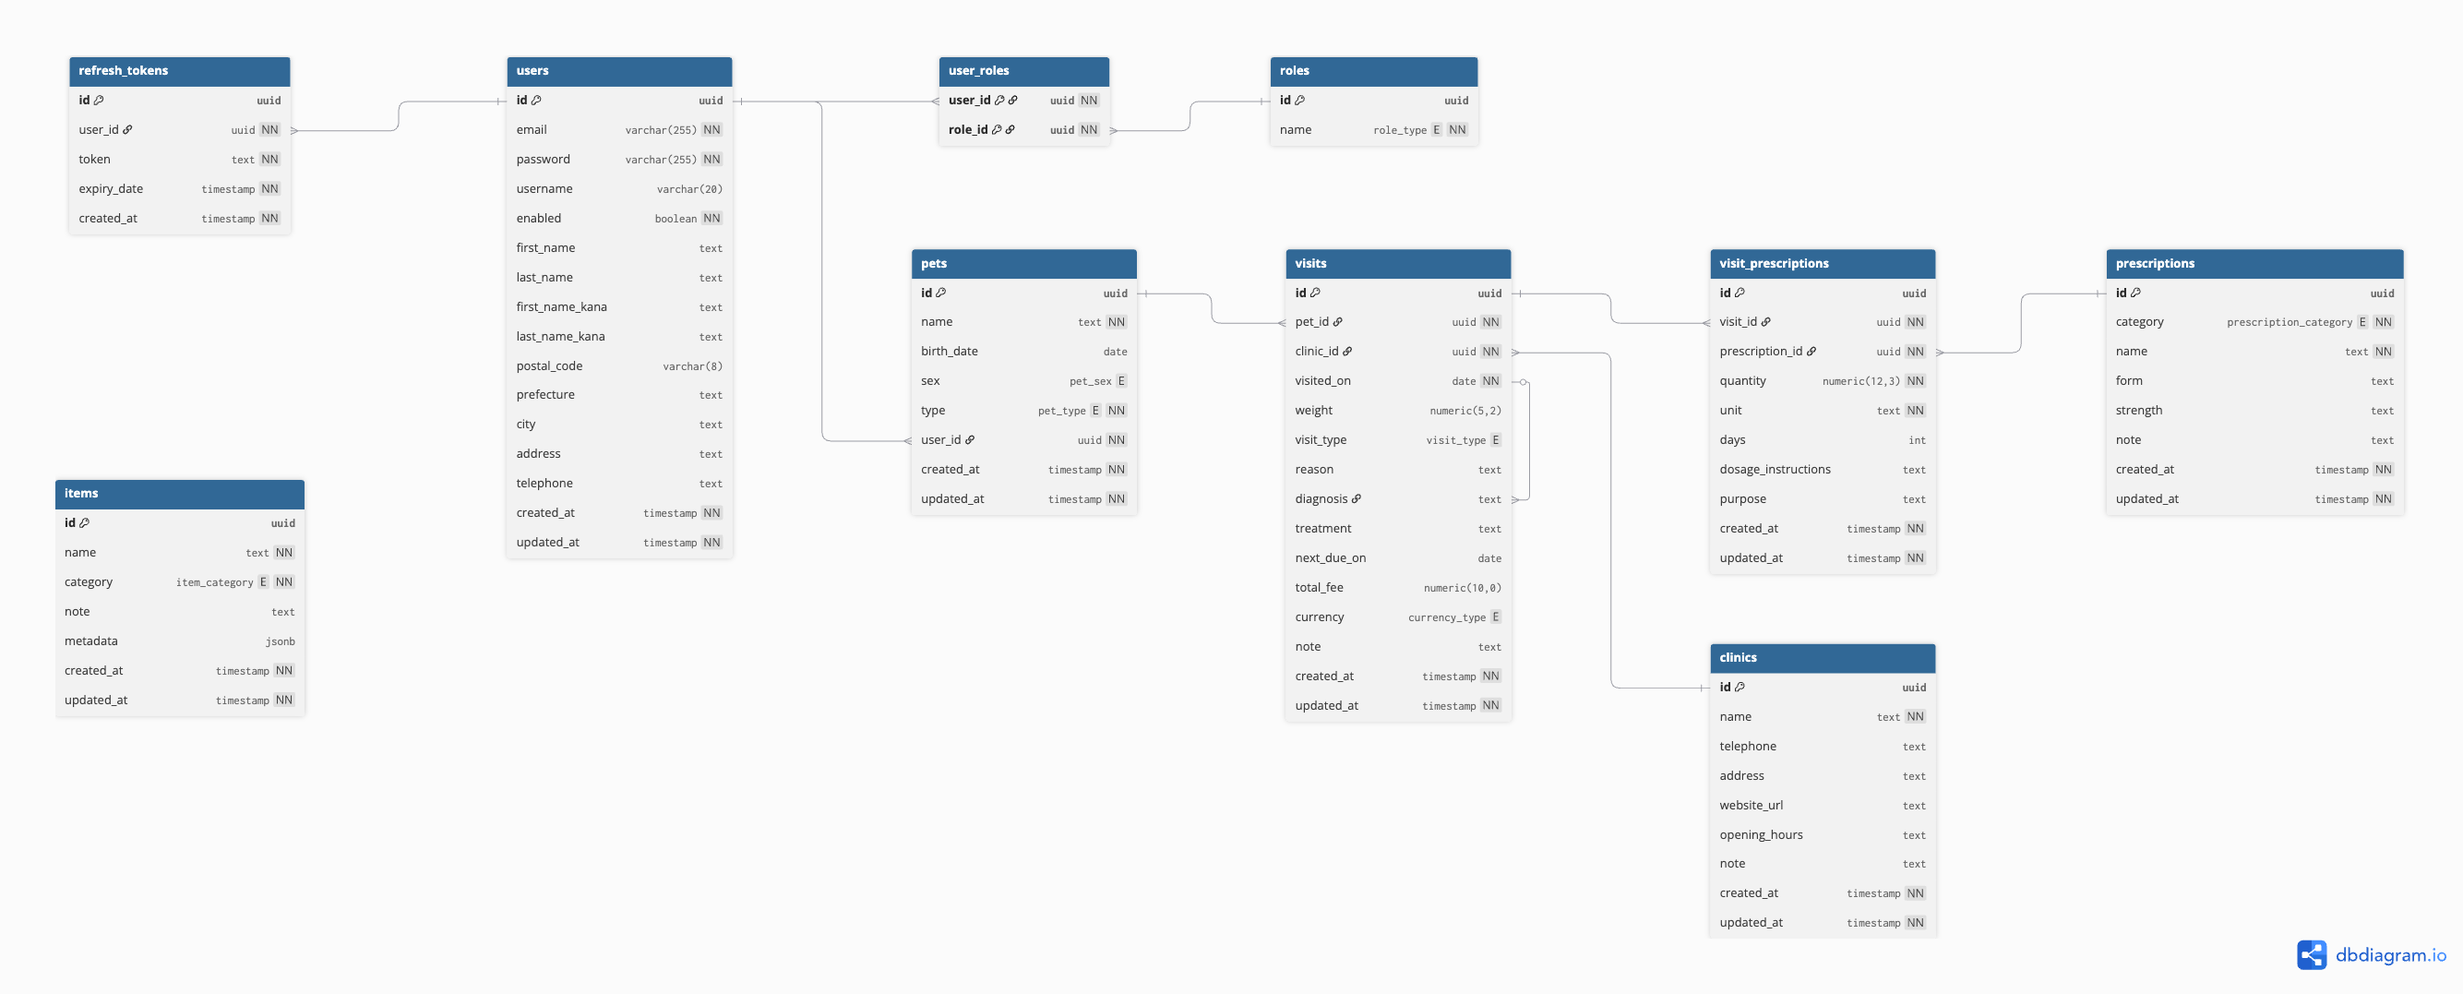
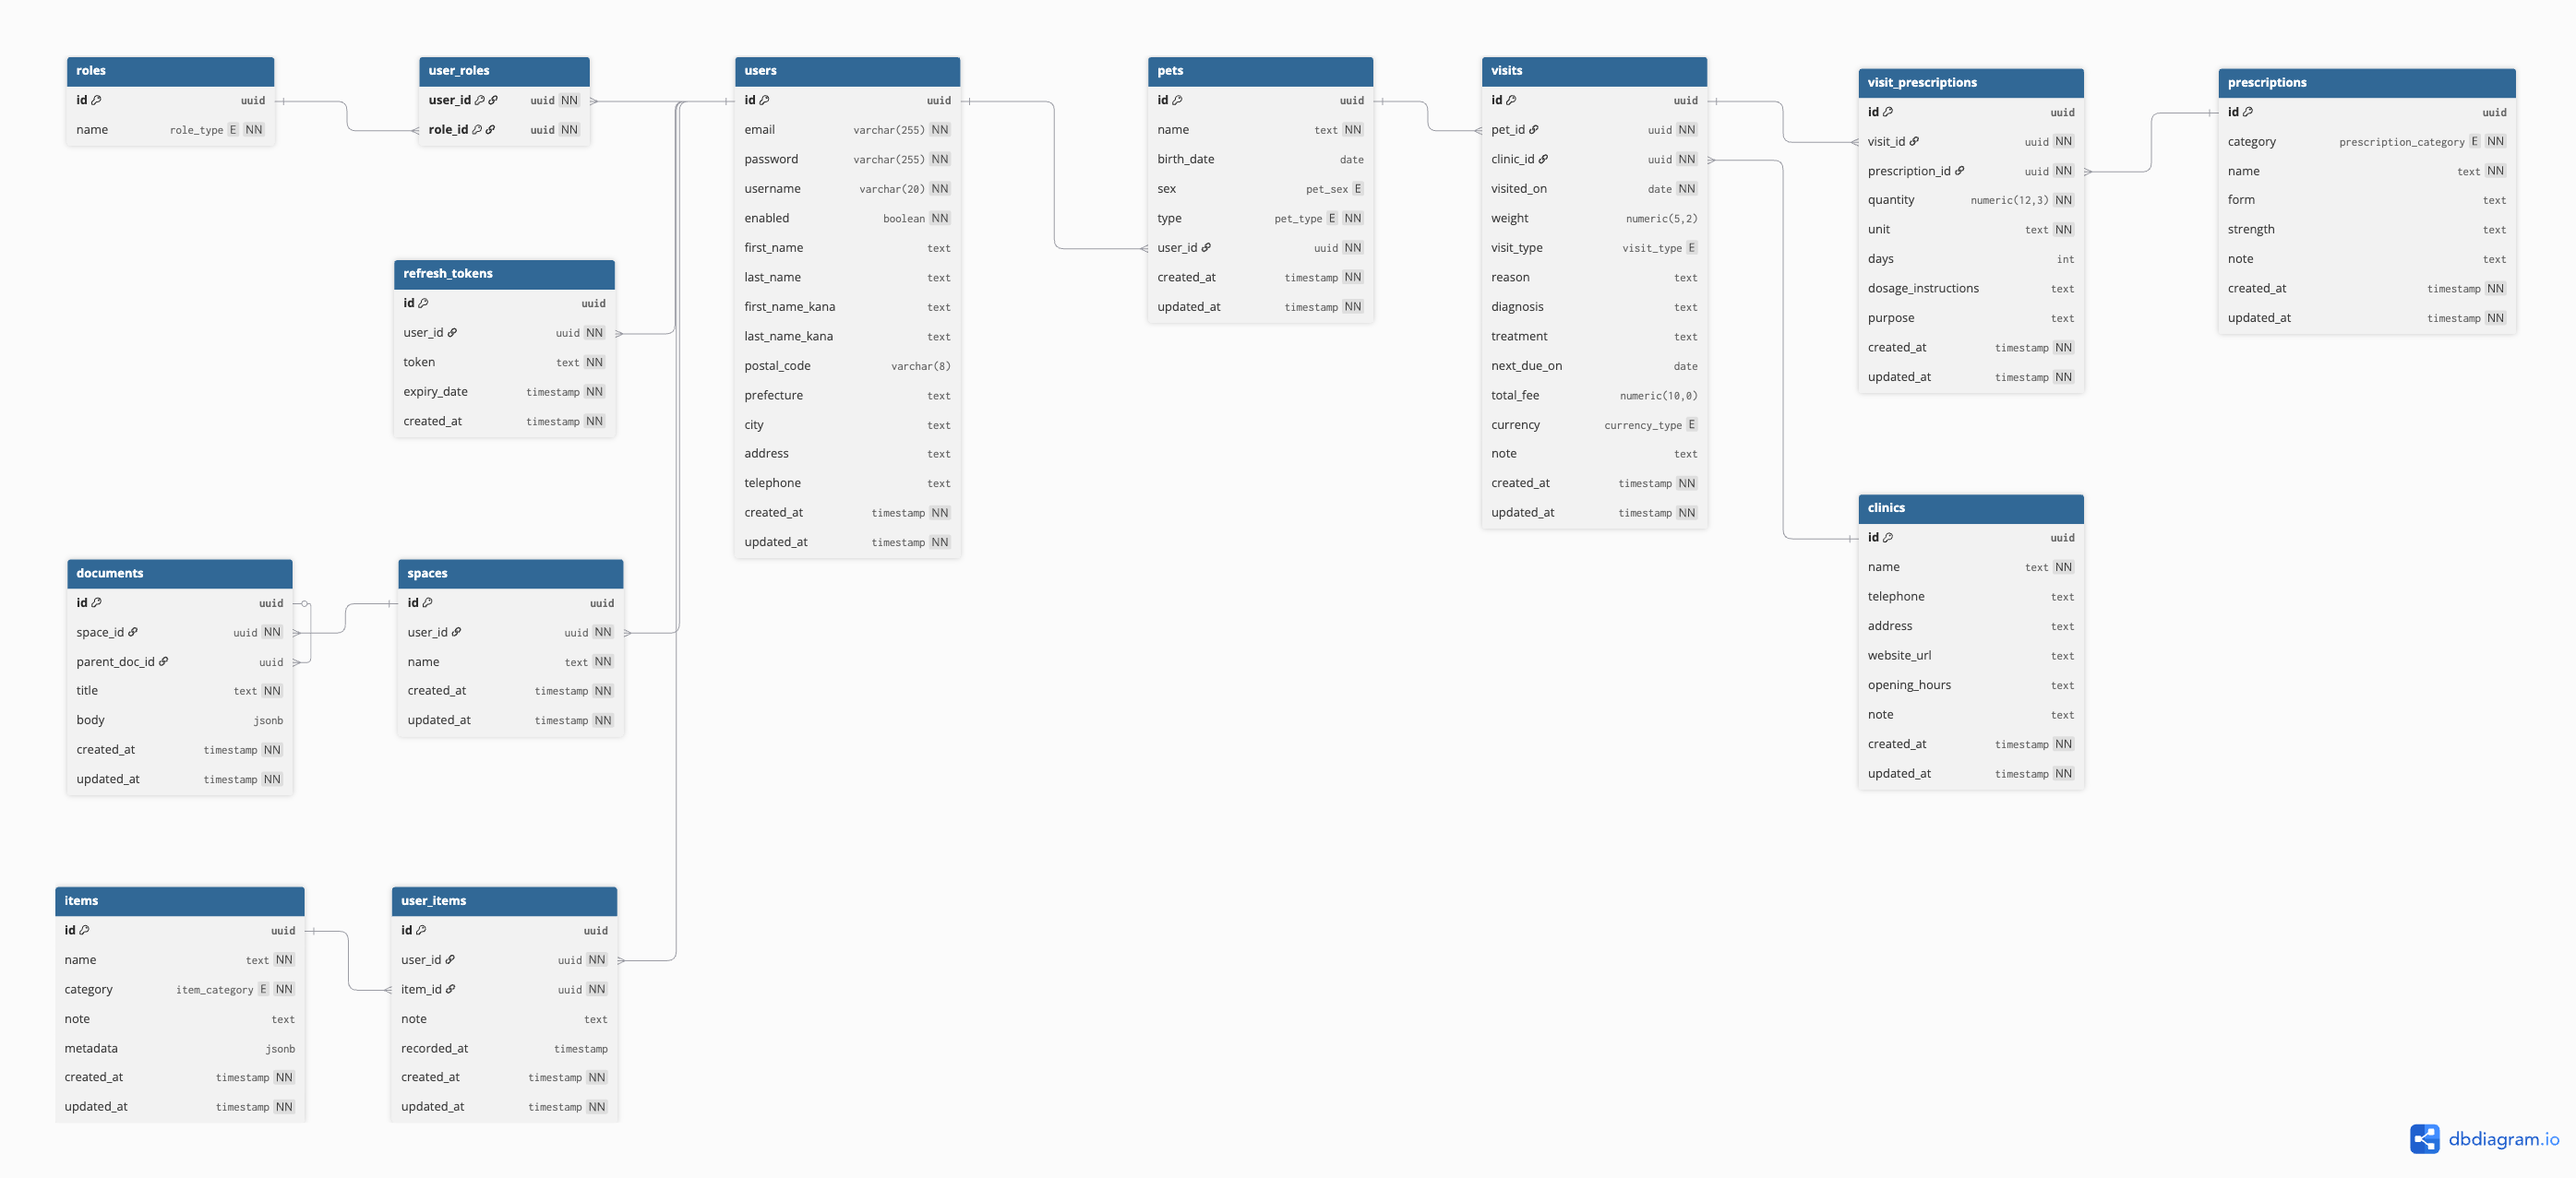
readme

diff --git a/readme.md b/readme.md
@@ -36,48 +36,64 @@ API documentation (OAS 3.1) is accessible at: [http://localhost:9966/petmanageme
 | **Tag** | **Method** | **Endpoint** | **Description** |
 | :--- | :--- | :--- | :--- |
 | **Authentication** |
-| |**POST** | `/api/auth/signin` | Sign in with email and password (returns JWT & refresh token) |
-| | **POST** | `/api/auth/signup` | Register a new user (**Public**) |
-| | **GET** | `/api/auth/me` | Get current user details (Token validation / Login check) |
-| | **POST** | `/api/auth/refreshtoken` | Generate a new access token using a refresh token |
-| | **POST** | `/api/auth/signout` | Log out user |
+| |**POST** | `/auth/signin` | Sign in with email and password (returns JWT & refresh token) |
+| | **POST** | `/auth/signup` | Register a new user (**Public**) |
+| | **GET** | `/auth/me` | Get current user details (Token validation / Login check) |
+| | **POST** | `/auth/refreshtoken` | Generate a new access token using a refresh token |
+| | **POST** | `/auth/signout` | Log out user |
 | **Users** |
-| | **GET** | `/api/users` | List users (supports pagination and kana search) |
-| | **POST** | `/api/users` | Create a new user (**Admin Only**) |
-| | **GET** | `/api/users/{userId}` | Get a user by ID (UUID) |
-| | **PUT** | `/api/users/{userId}` | Update user profile |
-| | **DELETE** | `/api/users/{userId}` | Delete a user |
-| **Pets** | 
-| | **GET** | `/api/pets` | Retrieve all pets (pagination supported) |
-| | **POST** | `/api/pets` | Add a new pet |
-| | **GET** | `/api/pets/{petId}` | Get a pet by ID |
-| | **PUT** | `/api/pets/{petId}` | Update pet details |
-| | **DELETE** | `/api/pets/{petId}` | Delete a pet |
-| **Pet Types** | 
-| | **GET** | `/api/pettypes` | Retrieve all allowed pet types (Enum values) |
+| | **GET** | `/users` | List users with pagination (supports kana search) |
+| | **POST** | `/users` | Create a user (**Admin Only**) |
+| | **GET** | `/users/{userId}` | Get a user by ID (UUID) |
+| | **PUT** | `/users/{userId}` | Update user profile |
+| | **DELETE** | `/users/{userId}` | Delete a user |
+| **Pets** |
+| | **GET** | `/pets` | List all pets with pagination |
+| | **POST** | `/pets` | Add a new pet |
+| | **GET** | `/pets/{petId}` | Get a pet by ID |
+| | **PUT** | `/pets/{petId}` | Update pet details |
+| | **DELETE** | `/pets/{petId}` | Delete a pet |
+| **Pet Types** |
+| | **GET** | `/pettypes` | Get allowed pet types (Enum values) |
 | **Clinics** |
-| | **GET** | `/api/clinics` | List all clinics (pagination supported) |
-| | **POST** | `/api/clinics` | Add a new clinic |
-| | **GET** | `/api/clinics/{clinicId}` | Get a clinic by ID |
-| | **PUT** | `/api/clinics/{clinicId}` | Update clinic details |
-| | **DELETE** | `/api/clinics/{clinicId}` | Delete a clinic |
+| | **GET** | `/clinics` | List all clinics with pagination |
+| | **POST** | `/clinics` | Add a new clinic |
+| | **GET** | `/clinics/{clinicId}` | Get a clinic by ID |
+| | **PUT** | `/clinics/{clinicId}` | Update clinic details |
+| | **DELETE** | `/clinics/{clinicId}` | Delete a clinic |
 | **Visits** |
-| | **GET** | `/api/visits` | List visits (can filter by `petId` / pagination supported) |
-| | **POST** | `/api/visits` | Record a new visit |
-| | **GET** | `/api/visits/{visitId}` | Get a visit by ID |
-| | **PUT** | `/api/visits/{visitId}` | Update a visit |
-| | **DELETE** | `/api/visits/{visitId}` | Delete a visit |
+| | **GET** | `/visits` | List visits with pagination (can filter by `petId`) |
+| | **POST** | `/visits` | Record a new visit |
+| | **GET** | `/visits/{visitId}` | Get a visit by ID |
+| | **PUT** | `/visits/{visitId}` | Update a visit |
+| | **DELETE** | `/visits/{visitId}` | Delete a visit |
 | **Visit Prescriptions** |
-| | **GET** | `/api/visits/{visitId}/prescriptions` | List prescriptions for a specific visit |
-| | **POST** | `/api/visits/{visitId}/prescriptions` | Add a prescription to a visit |
-| | **DELETE** | `/api/visits/{visitId}/prescriptions/{visitPrescriptionId}` | Remove a prescription from a visit |
-| **Master Data** | 
-| | **GET** | `/api/prescriptions` | List prescription master data (pagination supported) |
-| | **POST** | `/api/prescriptions` | Add new prescription master data |
-| | **GET** | `/api/items` | List item master data (pagination supported) |
-| | **POST** | `/api/items` | Add new item master data |
-| **System** | 
-| | **GET** | `/api/oops` | Always fails (for testing error handling) |
+| | **GET** | `/visits/{visitId}/prescriptions` | List prescriptions for a specific visit |
+| | **POST** | `/visits/{visitId}/prescriptions` | Add a prescription to a visit |
+| | **DELETE** | `/visits/{visitId}/prescriptions/{visitPrescriptionId}` | Remove a prescription from a visit |
+| **Prescriptions** |
+| | **GET** | `/prescriptions` | List prescription master data with pagination |
+| | **POST** | `/prescriptions` | Add new prescription master data |
+| **Items** |
+| | **GET** | `/items` | List item master data with pagination |
+| | **POST** | `/items` | Add new item master data |
+| **User Items** |
+| | **GET** | `/user-items` | List user's items with pagination |
+| | **POST** | `/user-items` | Add a new user item record |
+| | **GET** | `/user-items/{userItemId}` | Get a user item by ID |
+| | **PUT** | `/user-items/{userItemId}` | Update user item |
+| | **DELETE** | `/user-items/{userItemId}` | Delete a user item |
+| **Spaces** |
+| | **GET** | `/spaces` | Get authenticated user's spaces |
+| | **POST** | `/spaces` | Create a new space |
+| **Documents** |
+| | **GET** | `/spaces/{spaceId}/documents` | List documents in a space |
+| | **POST** | `/spaces/{spaceId}/documents` | Create a new document |
+| | **GET** | `/spaces/{spaceId}/documents/{documentId}` | Get a document |
+| | **PATCH** | `/spaces/{spaceId}/documents/{documentId}` | Update a document partially |
+| | **DELETE** | `/spaces/{spaceId}/documents/{documentId}` | Delete a document |
+| **System** |
+| | **GET** | `/oops` | Always fails (for testing error handling) |
 
 
 ## Database Settings
